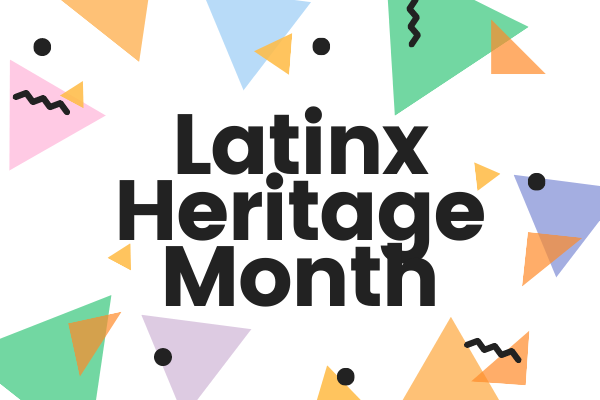
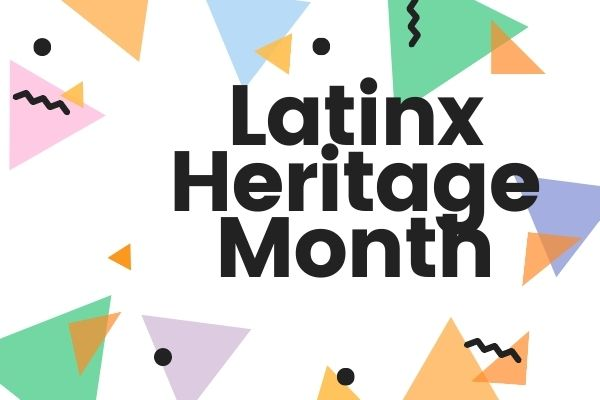
edited the photos and description of the latinx heritage month event

diff --git a/components/events/index.tsx b/components/events/index.tsx
@@ -335,36 +335,13 @@ const FeaturedEvents: FeaturedEvent[] = [
     description: (
       <>
         Mission Bit’s celebrates Latinx Heritage month with our amazing panel of
-        speakers.
+        speakers. We welcome Eduardo Tapia from Redfin, Gloria Marissa Trevino
+        from Dell, Natalie Isabel Contreras from Adobe Digital Academy, and
+        Nicolas Magaña from Lyft. Come and learn about their journeys in tech!
       </>
     ),
     topRightImage: {
       desc: "Career panel with 3 people's face around it",
-      width: 600,
-      height: 401,
-      webp: [
-        {
-          src: require("public/images/events/latinx-panel/latinx-2.jpg?webp"),
-          width: 600,
-        },
-        {
-          src: require("public/images/events/latinx-panel/latinx-2@0.5.jpg?webp"),
-          width: 299,
-        },
-      ],
-      jpg: [
-        {
-          src: require("public/images/events/latinx-panel/latinx-2.jpg"),
-          width: 600,
-        },
-        {
-          src: require("public/images/events/latinx-panel/latinx-2@0.5.jpg"),
-          width: 299,
-        },
-      ],
-    },
-    bottomLeftImage: {
-      desc: "Latinx Heritage Month",
       width: 600,
       height: 401,
       webp: [
@@ -384,6 +361,31 @@ const FeaturedEvents: FeaturedEvent[] = [
         },
         {
           src: require("public/images/events/latinx-panel/latinx-1@0.5.jpg"),
+          width: 299,
+        },
+      ],
+    },
+    bottomLeftImage: {
+      desc: "Latinx Heritage Month",
+      width: 600,
+      height: 401,
+      webp: [
+        {
+          src: require("public/images/events/latinx-panel/career1.jpg?webp"),
+          width: 600,
+        },
+        {
+          src: require("public/images/events/latinx-panel/career1@0.5x.jpg?webp"),
+          width: 299,
+        },
+      ],
+      jpg: [
+        {
+          src: require("public/images/events/latinx-panel/career1.jpg"),
+          width: 600,
+        },
+        {
+          src: require("public/images/events/latinx-panel/career1@0.5x.jpg"),
           width: 299,
         },
       ],
